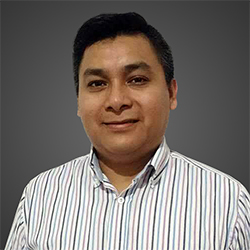
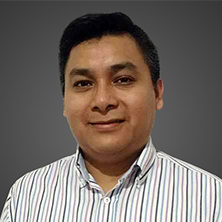
Tweak to mario picture

diff --git a/themes/oslc-conference/static/js/bio-209.js b/themes/oslc-conference/static/js/bio-209.js
@@ -543,7 +543,7 @@ var bio = {
   marioC: {
     'name': 'Mario Carrasco',
     'title': ' Senior Developer at Koneksys',
-    'picturePath': '/images/img-placeholder.png',
+    'picturePath': '/images/speakers/mario_c.jpg',
     'bio': [
       "Experience as software engineer and project manager, mostly working as a backend developer, developing web applications and REST services, recently working at Koneksys in OSLC and Linked Data solutions for creating generic OSLC APIs to expose RDF resources through a REST API based on a given schema defined in SHACL. Also working on integrations with IBM CLM applications such as DNG, RQM and RTC using OSLC. Currently working in the development of an OSLC API reference implementation in Python."
     ],

diff --git a/content/_index.md b/content/_index.md
@@ -119,7 +119,7 @@ speakersImage = [
   "/images/speakers/asa_l.jpg",
   "/images/img-placeholder.png",
   "/images/speakers/luis_r.jpg",
-  "/images/img-placeholder.png",
+  "/images/speakers/mario_c.jpg",
   "/images/speakers/tarik_m.png",
 ]
 speakersBio = [
